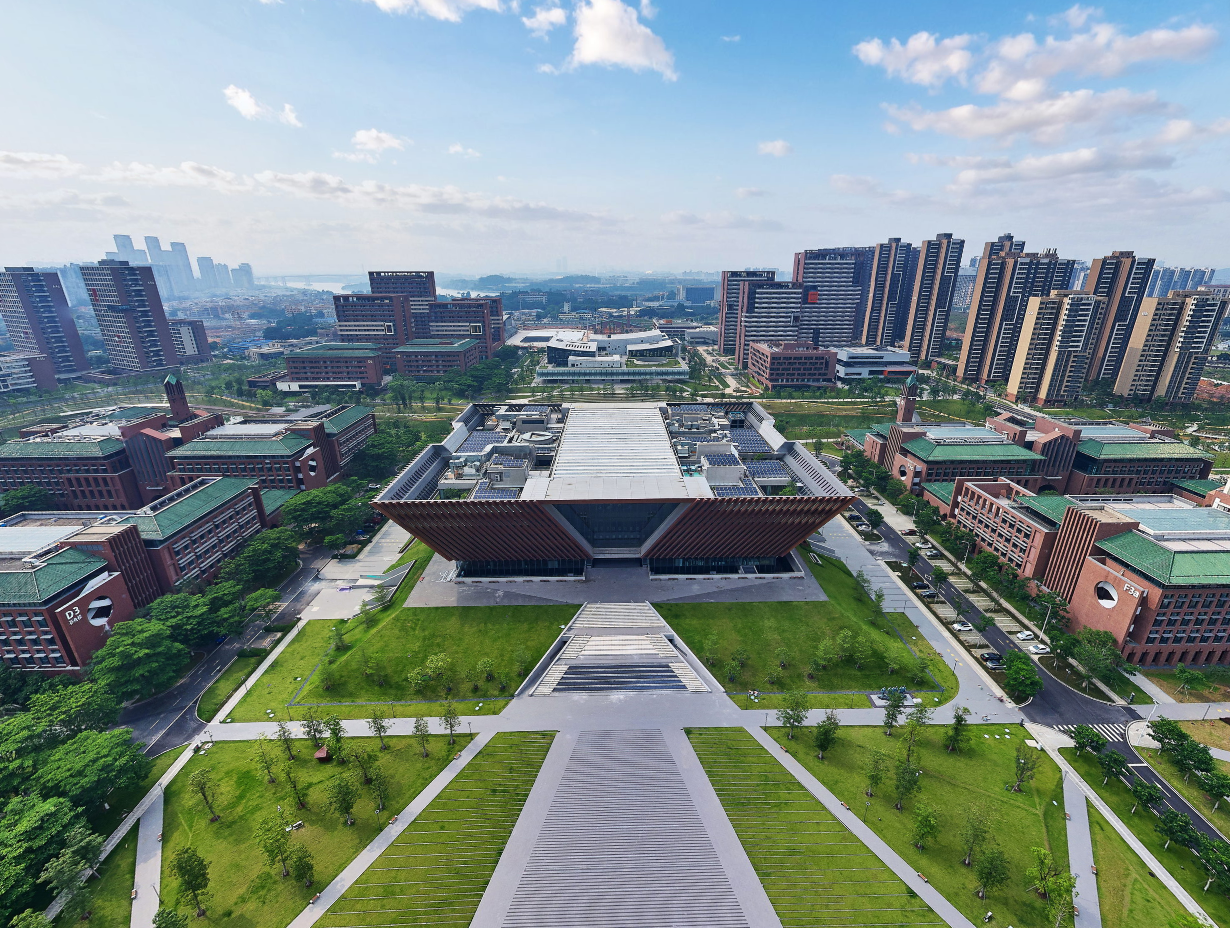
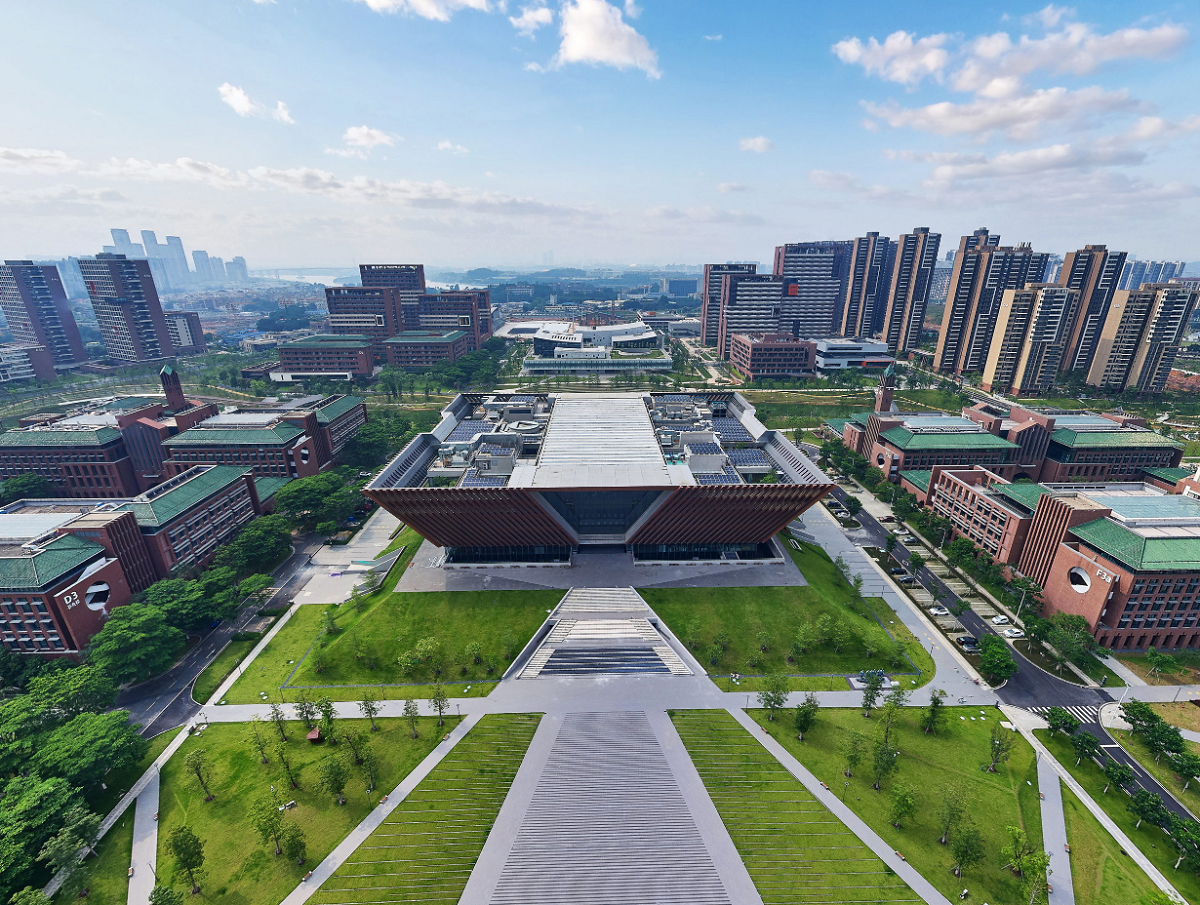
Research、People、Contact：图片大小调整适配窗口

Changed region(s): [[0.8942, 0.7735, 0.925, 0.8044], [0.8017, 0.5569, 0.8325, 0.5878]]

diff --git a/content/people/index.md b/content/people/index.md
@@ -325,6 +325,6 @@ sections:
 
         ---
         <div class="group-photo">
-          <img src="/images/9_课题组合照_2024.jpg" alt="Group Photo 1">
+          <img src="/images/课题组合照_2024(1200).jpg" alt="Group Photo 1">
         </div> 
 ---
